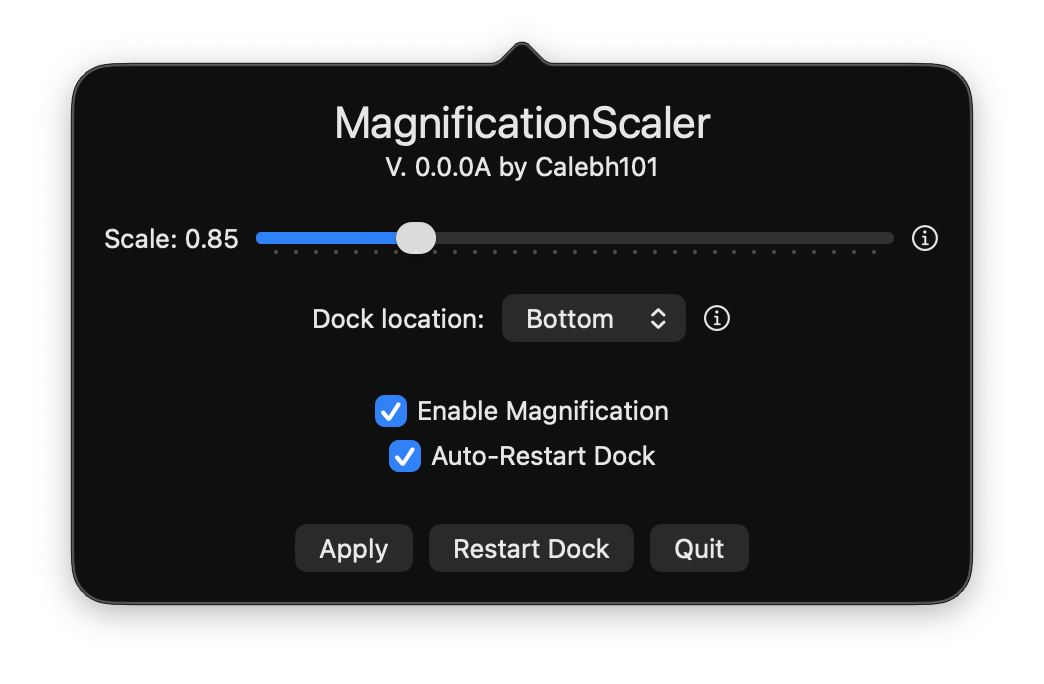
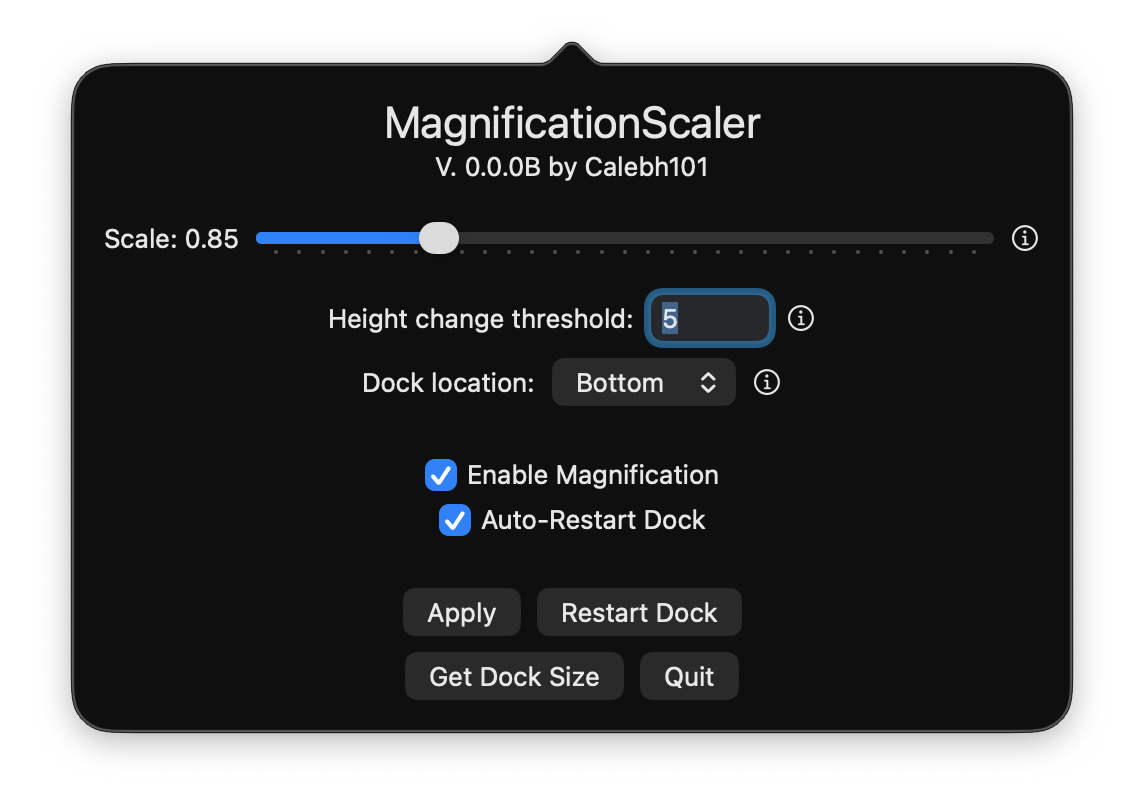
New setting for threshold, and properly handle no accessibility permissions

Changed region(s): [[0.0613, 0.0307, 0.9502, 0.9211]]

diff --git a/MagnificationScaler/ContentView.swift b/MagnificationScaler/ContentView.swift
@@ -7,17 +7,22 @@
 
 import SwiftUI
 
-let width = 450.0
-let height = 250.0
+let width = 500.0
+let height = 350.0
 
 struct ContentView: View {
     @AppStorage("location") private var location = "tb"
     @AppStorage("scale") private var scale: Double = 1.0
+    @AppStorage("factorChangeThreshold") public var factorChangeThreshold: Double = 1.0
     @AppStorage("autoRestartDock") private var autoRestartDock = true
     @AppStorage("enableMagnification") private var enableMagnification = true
     
+    @State private var dockSizeText = ""
+    
     @State private var showInfoLocation = false
     @State private var showInfoScale = false
+    @State private var showInfoThreshold = false
+    @State private var showDockSize = false
     
     var body: some View {
         VStack {
@@ -39,6 +44,32 @@ struct ContentView: View {
                 }
             }
             Spacer().frame(height: 20)
+            HStack {
+                Text("\(location == "tb" ? "Height" : "Width)") change threshold:")
+                TextField("Pixels", value: $factorChangeThreshold, format: .number)
+                    .textFieldStyle(RoundedBorderTextFieldStyle())
+                    .frame(width: 60)
+                    .onChange(of: factorChangeThreshold) { old, new in
+                        let min = 1.0
+                        let max = 999.0
+
+                        if new < min {
+                            factorChangeThreshold = min
+                        } else if new > max {
+                            factorChangeThreshold = max
+                        }
+                    }
+                Button {
+                    showInfoThreshold.toggle()
+                } label: {
+                    Image(systemName: "info.circle")
+                }
+                .buttonStyle(.plain)
+                .popover(isPresented: $showInfoThreshold) {
+                    Text("How many pixels the dock's \(location == "tb" ? "height" : "width)") has to change to automatically restart the dock.\nThis is only applicable if Auto-Restart Dock is on.\n\nUse Get Dock Size below to show your dock's current \(location == "tb" ? "height" : "width)").")
+                        .padding().frame(width: 400)
+                }
+            }
             HStack {
                 Picker("Dock location:", selection: $location) {
                     Text("Bottom").tag("tb")
@@ -66,6 +97,22 @@ struct ContentView: View {
                     }
                 }
                 Button("Restart Dock") { restartDock() }
+            }
+            HStack {
+                Button("Get Dock Size") {
+                    if let size = getDockSize() {
+                        dockSizeText = "width x height:\n\(size.width)px x \(size.height)px"
+                    } else {
+                        dockSizeText = "Unavailable"
+                    }
+                    
+                    showDockSize = true
+                }
+                .alert("Dock Size", isPresented: $showDockSize) {
+                    Button("OK", role: .cancel) { }
+                } message: {
+                    Text(dockSizeText)
+                }
                 Button("Quit") { NSApplication.shared.terminate(nil) }
             }
         }

diff --git a/MagnificationScaler/NoPermsView.swift b/MagnificationScaler/NoPermsView.swift
@@ -1,0 +1,25 @@
+//
+//  NoPermsView.swift
+//  MagnificationScaler
+//
+//  Created by caleb on 6/30/26.
+//
+
+import SwiftUI
+
+struct NoPermsView: View {
+    static let width = 420.0
+    static let height = 100.0
+    
+    var body: some View {
+        VStack {
+            Text("Please enable accessibility permissions for MagnificationScaler.").font(.body)
+            Text("Then restart the app.").font(.body)
+            Button("Quit") { NSApplication.shared.terminate(nil) }
+        }.frame(width: Self.width, height: Self.height)
+    }
+}
+
+#Preview {
+    NoPermsView().frame(width: NoPermsView.width, height: NoPermsView.height)
+}

diff --git a/MagnificationScaler/MagnificationScalerApp.swift b/MagnificationScaler/MagnificationScalerApp.swift
@@ -8,12 +8,13 @@
 import SwiftUI
 import SwiftData
 
-let version = "0.0.0A"
+let version = "0.0.0B"
 let previous = PreviousValue()
 
 class MSSettings {
     @AppStorage("location") static public var location = "tb"
     @AppStorage("scale") static public var scale: Double = 1.0
+    @AppStorage("factorChangeThreshold") static public var factorChangeThreshold: Double = 1.0
     @AppStorage("autoRestartDock") static public var autoRestartDock = true
     @AppStorage("enableMagnification") static public var enableMagnification = true
 }
@@ -23,9 +24,12 @@ func setDock(size: CGSize, override: Bool = false) {
     let scale = MSSettings.scale
     let location = MSSettings.location
     let autoRestartDock = MSSettings.autoRestartDock
+    let threshold = MSSettings.factorChangeThreshold
     
     let factor = location == "tb" ? size.height : size.width
-    if !override && factor == previous.value { return }
+    let diff = abs(Double(factor) - Double(previous.value))
+
+    if !override && diff == 0 { return }
     previous.value = factor
 
     let dockDefaults = UserDefaults(suiteName: "com.apple.dock")!
@@ -35,7 +39,7 @@ func setDock(size: CGSize, override: Bool = false) {
     dockDefaults.set(results, forKey: "largesize")
     dockDefaults.synchronize()
 
-    if autoRestartDock {
+    if autoRestartDock && (override || diff >= threshold) {
         restartDock()
     }
     
@@ -78,8 +82,15 @@ class AppDelegate: NSObject, NSApplicationDelegate {
         }
 
         popover = NSPopover()
-        popover.contentSize = NSSize(width: width, height: height)
         popover.behavior = .transient
+        
+        if !checkAccessibilityPermission() {
+            popover.contentSize = NSSize(width: NoPermsView.width, height: NoPermsView.height)
+            popover.contentViewController = NSHostingController(rootView: NoPermsView())
+            return
+        }
+        
+        popover.contentSize = NSSize(width: width, height: height)
         popover.contentViewController = NSHostingController(rootView: ContentView())
         
         print("Monitor is starting")

diff --git a/README.md b/README.md
@@ -11,14 +11,21 @@ This app monitors the dock's height (or width) and adjusts the magnification bas
 
 The caveat is that there is a small flicker when the dock restarts.
 
+## Requirements
+
+- macOS Big Sur and newer
+- Accessibility permissions (Settings > Privacy & Security > Accessibility)
+
 ## Settings
 
 - Scale: The scaling of the magnification compared to the dock's size. Use the Info button to learn more.
+- Width/height change threshold: How much the width/height of the dock (based on location) needs to change before the dock is restarted. Only applicable if Auto-Restart Dock is on.
 - Dock location: The app needs to know this, so it knows whether to use the width or the height of the dock as its factor. Click the Info button to learn more.
 - Enable Magnification: Whether to enable magnification. Turning this off doesn't disable the app's functionality; it just tells macOS to not use magnification. If you turn this off, you should also probably turn off Auto-Restart Dock.
 - Auto-Restart Dock: To restart the dock automatically on size changes. If this is disabled, then it just skips restarting the dock, and you'll have to do this manually. The preferences will still be set.
 
 ## Buttons
+
 - Apply: Apply the settings you set and restart the dock (if Auto-Restart Dock is enabled).
 - Restart Dock: Same as running `killall dock`.
 - Quit: Quit MagnificationScaler.